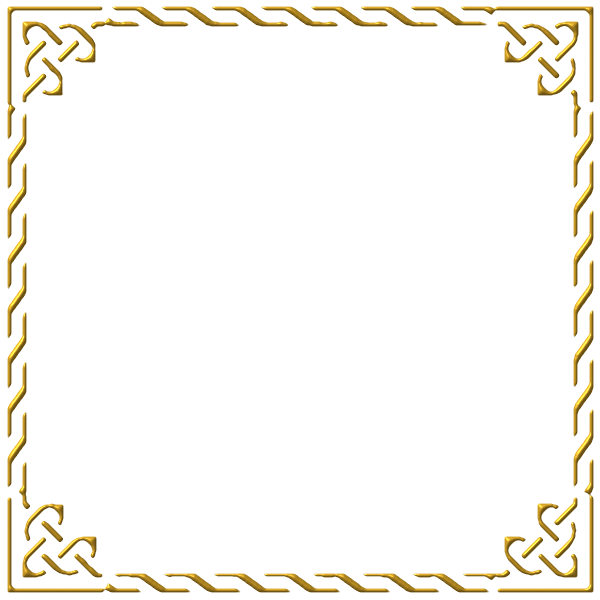
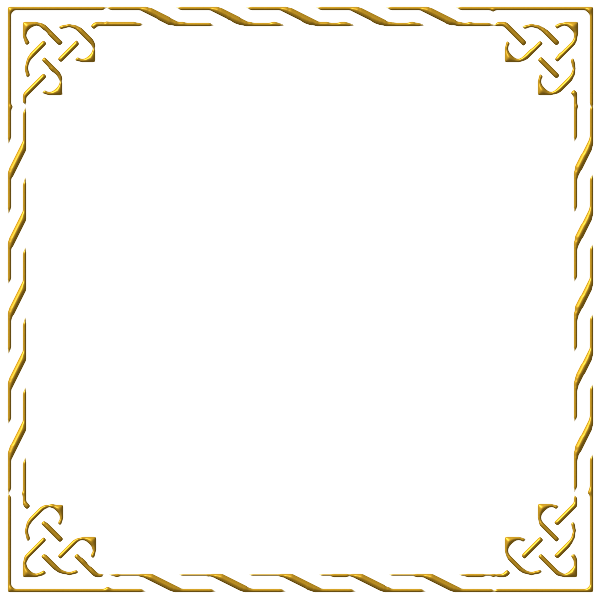
v7.82: bronzo brunito e treccia piu distanziata ed elegante su tutte e 4 le cornici

diff --git a/js/data.js b/js/data.js
@@ -5,7 +5,7 @@
  ============================================================ */
 
 /* ── App info ── */
-export const APP_VERSION = "7.81";
+export const APP_VERSION = "7.82";
 export const APP_RELEASE = "28/11/2026";
 export const APP_DEV = "djiglio.ai";
 
